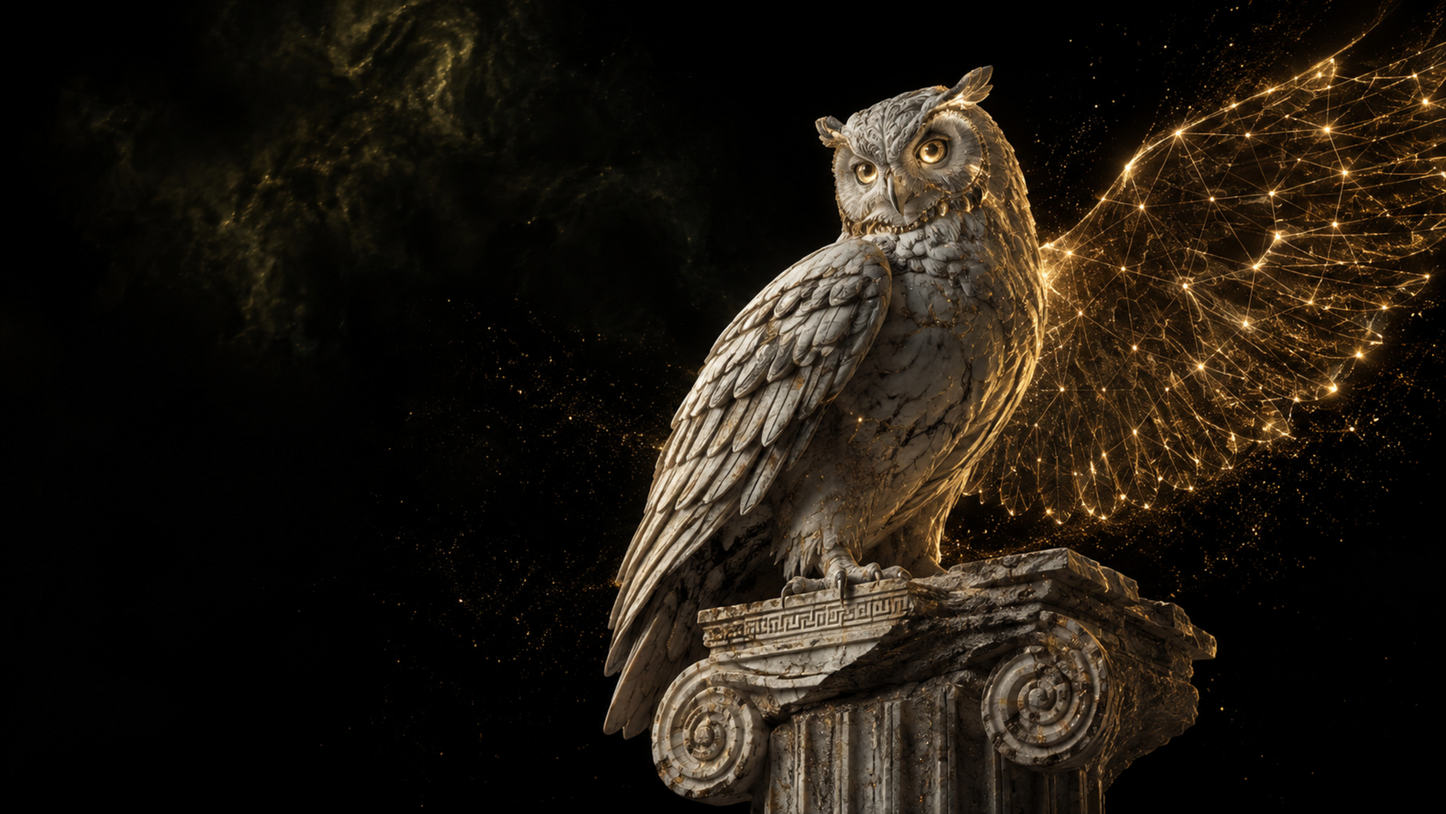
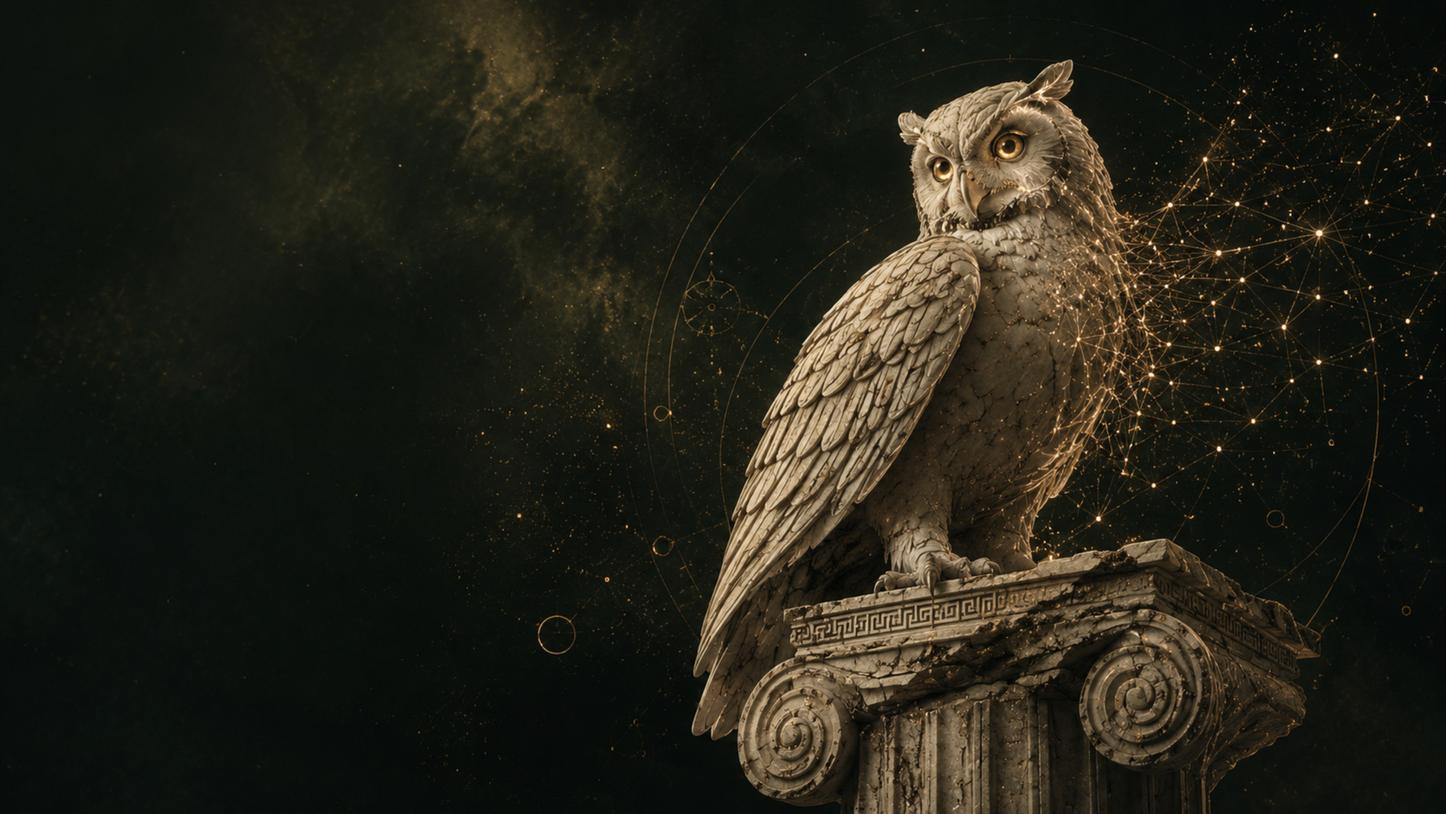
Update About backdrop artwork and highlight the active nav tab.

diff --git a/src/components/site-header.tsx b/src/components/site-header.tsx
@@ -1,11 +1,28 @@
 "use client";
 
 import Link from "next/link";
+import { usePathname } from "next/navigation";
 import { useEffect, useState } from "react";
 import { BrandLockup } from "@/components/brand-lockup";
 import { headerCta, navigation } from "@/data/site-content";
 
+function isActivePath(pathname: string, href: string) {
+  if (href === "/") return pathname === "/";
+  return pathname === href || pathname.startsWith(`${href}/`);
+}
+
+const navIdle =
+  "rounded-full border border-sage/70 px-3.5 py-1.5 text-sm font-medium tracking-wide text-ivory/80 transition-colors hover:border-sage hover:bg-sage/10 hover:text-ivory";
+const navActive =
+  "rounded-full border border-gold bg-gold/15 px-3.5 py-1.5 text-sm font-semibold tracking-wide text-gold transition-colors";
+
+const mobileIdle =
+  "inline-flex w-fit rounded-full border border-sage/70 px-4 py-2 font-serif text-xl text-ivory transition-colors hover:border-sage hover:bg-sage/10";
+const mobileActive =
+  "inline-flex w-fit rounded-full border border-gold bg-gold/15 px-4 py-2 font-serif text-xl text-gold";
+
 export function SiteHeader() {
+  const pathname = usePathname();
   const [scrolled, setScrolled] = useState(false);
   const [menuOpen, setMenuOpen] = useState(false);
 
@@ -38,21 +55,29 @@ export function SiteHeader() {
           className="hidden items-center gap-2 xl:gap-2.5 lg:flex"
           aria-label="Primary"
         >
-          {navigation.map((item) => (
-            <Link
-              key={item.href}
-              href={item.href}
-              className="rounded-full border border-sage/70 px-3.5 py-1.5 text-sm font-medium tracking-wide text-ivory/80 transition-colors hover:border-sage hover:bg-sage/10 hover:text-ivory"
-            >
-              {item.label}
-            </Link>
-          ))}
+          {navigation.map((item) => {
+            const active = isActivePath(pathname, item.href);
+            return (
+              <Link
+                key={item.href}
+                href={item.href}
+                className={active ? navActive : navIdle}
+                aria-current={active ? "page" : undefined}
+              >
+                {item.label}
+              </Link>
+            );
+          })}
         </nav>
 
         <div className="flex items-center gap-3">
           <Link
             href={headerCta.href}
-            className="hidden rounded-full border border-gold px-4 py-2 text-sm font-medium tracking-wide text-ivory transition-colors hover:bg-gold/10 sm:inline-flex"
+            className={`hidden rounded-full border px-4 py-2 text-sm font-medium tracking-wide transition-colors sm:inline-flex ${
+              isActivePath(pathname, headerCta.href)
+                ? "border-gold bg-gold text-forest"
+                : "border-gold text-ivory hover:bg-gold/10"
+            }`}
           >
             {headerCta.label}
           </Link>
@@ -87,19 +112,27 @@ export function SiteHeader() {
           className="border-t border-ivory/10 bg-forest/95 px-6 py-8 backdrop-blur-md lg:hidden"
         >
           <nav className="flex flex-col gap-3" aria-label="Mobile">
-            {navigation.map((item) => (
-              <Link
-                key={item.href}
-                href={item.href}
-                className="inline-flex w-fit rounded-full border border-sage/70 px-4 py-2 font-serif text-xl text-ivory transition-colors hover:border-sage hover:bg-sage/10"
-                onClick={() => setMenuOpen(false)}
-              >
-                {item.label}
-              </Link>
-            ))}
+            {navigation.map((item) => {
+              const active = isActivePath(pathname, item.href);
+              return (
+                <Link
+                  key={item.href}
+                  href={item.href}
+                  className={active ? mobileActive : mobileIdle}
+                  aria-current={active ? "page" : undefined}
+                  onClick={() => setMenuOpen(false)}
+                >
+                  {item.label}
+                </Link>
+              );
+            })}
             <Link
               href={headerCta.href}
-              className="mt-2 inline-flex w-fit rounded-full border border-gold px-4 py-2 text-sm font-medium tracking-wide text-ivory sm:hidden"
+              className={`mt-2 inline-flex w-fit rounded-full border px-4 py-2 text-sm font-medium tracking-wide sm:hidden ${
+                isActivePath(pathname, headerCta.href)
+                  ? "border-gold bg-gold text-forest"
+                  : "border-gold text-ivory"
+              }`}
               onClick={() => setMenuOpen(false)}
             >
               {headerCta.label}

diff --git a/src/components/about-story.tsx b/src/components/about-story.tsx
@@ -5,11 +5,11 @@ export function AboutStory() {
   return (
     <section className="relative isolate overflow-hidden bg-[#0a0c0b]">
       <picture className="absolute inset-0">
-        <source srcSet="/brand/pages/about.webp?v=5" type="image/webp" />
+        <source srcSet="/brand/pages/about.webp?v=6" type="image/webp" />
         <img
-          src="/brand/pages/about.jpg?v=5"
+          src="/brand/pages/about.jpg?v=6"
           alt=""
-          className="h-full w-full object-cover object-[72%_center]"
+          className="h-full w-full object-cover object-[68%_center]"
           decoding="async"
           fetchPriority="high"
         />
